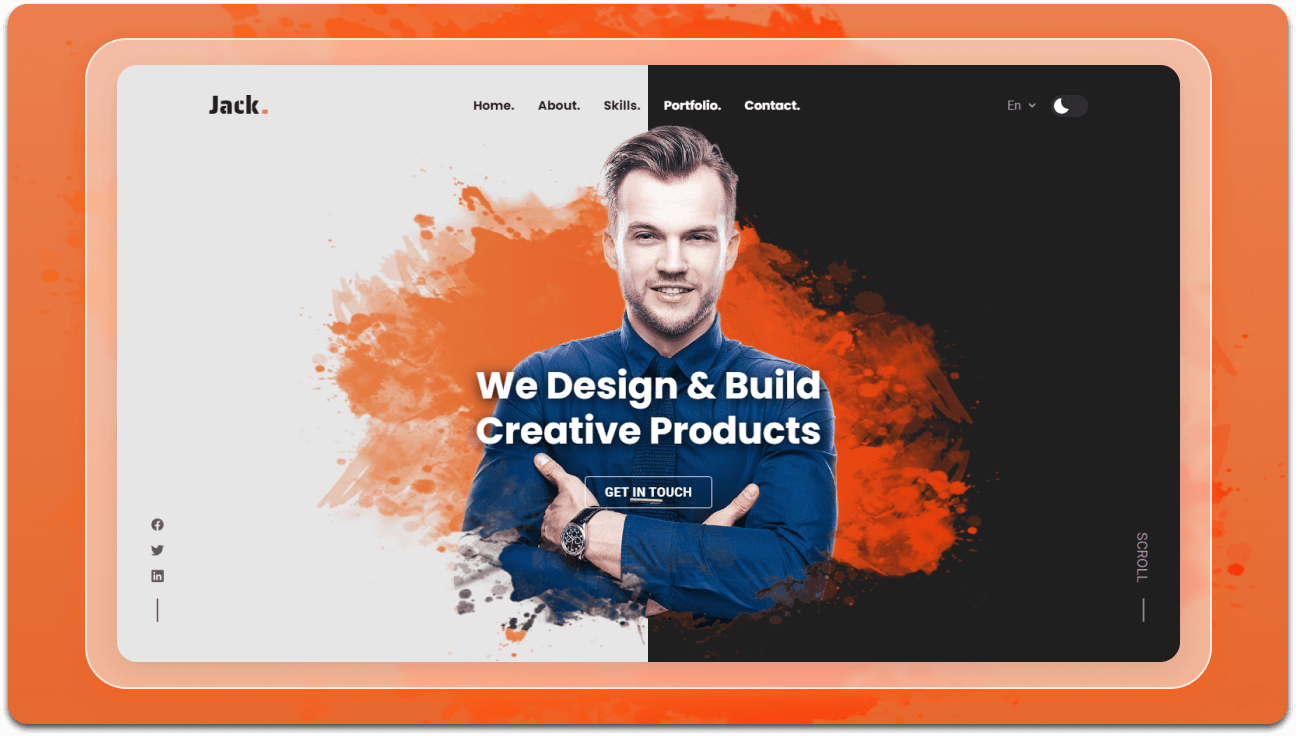
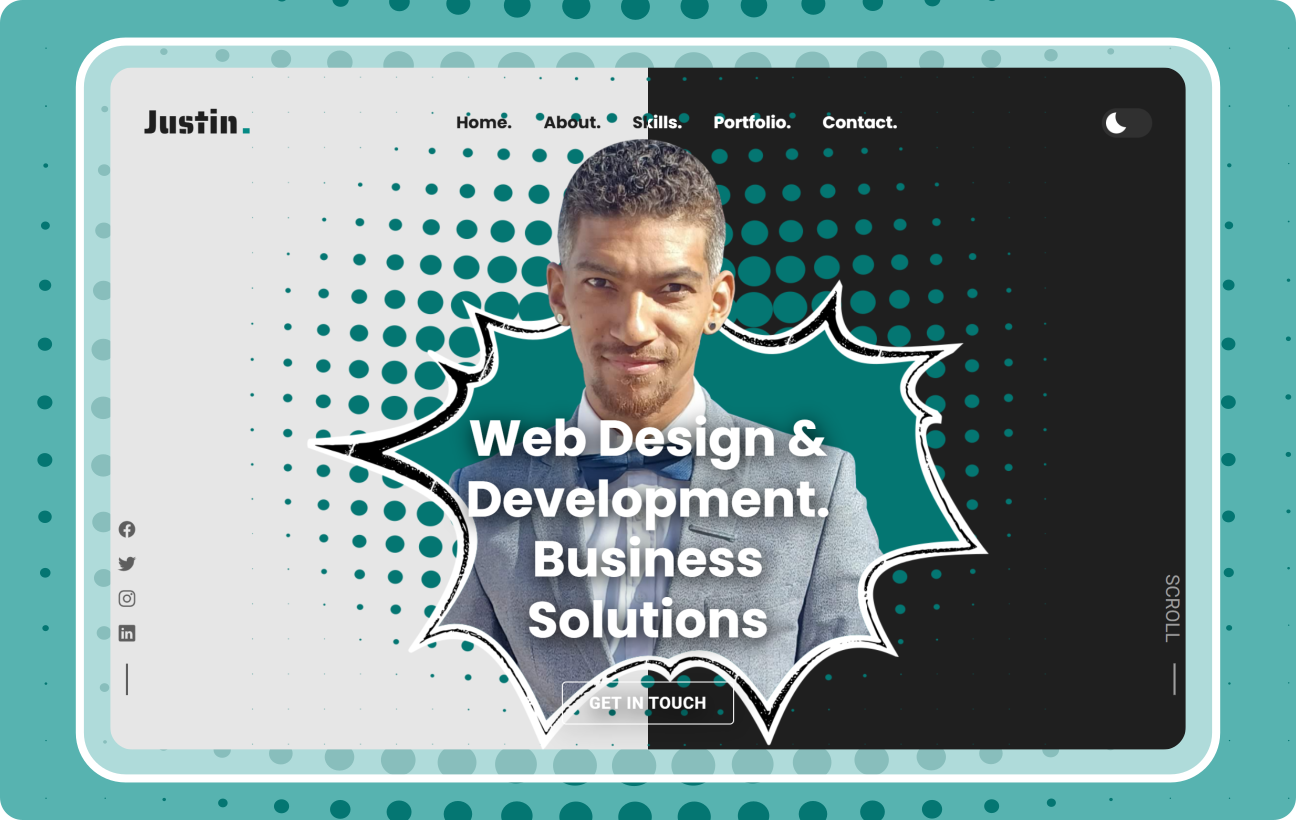
README images updated. Hero image filter added

diff --git a/index.html b/index.html
@@ -114,7 +114,7 @@
 
         <div class="hero-content">
 
-          <h2 class="h2 hero-title">Web Design & Development. <br> Business <br> Solutions</h2>
+          <h2 class="h2 hero-title">Web Design & Development. <br> Business Solutions</h2>
 
           <a href="#contact" class="btn btn-primary">Get in touch</a>
 
@@ -854,9 +854,9 @@
             </a>
           </li>
 
-          <li>
+          <!-- <li>
             <button class="load-more">Load more work...</button>
-          </li>
+          </li> -->
 
         </ul>
 

diff --git a/assets/css/style.css b/assets/css/style.css
@@ -532,6 +532,10 @@ main {
   max-width: 500px;
   width: 125%;
   margin-bottom: 30px;
+
+  picture {
+    filter: brightness(90%);
+  }
 }
 
 :is(.hero-social-list, .scroll-down) {
@@ -1176,7 +1180,7 @@ textarea.input-field {
      * typography
      */
 
-    --fs-2: 3rem;
+    --fs-2: 2.8rem;
 
     /**
      * spacing

diff --git a/README.md b/README.md
@@ -1,2 +1,62 @@
-# justin-portfolio
-Portfolio Website for Justin Cupido - Web Development and Business Solutions for Online Success
+<div align="center">
+  
+  <br />
+  <br />
+  
+  <img src="./readme-images/project-logo.png" />
+
+  <h2 align="center">Justin - Personal portfolio</h2>
+
+  Portfolio Website for Justin Cupido - Web Development and Business Solutions for Online Success
+
+  This website is a fully responsive personal portfolio, <br />Responsive for all devices, built using HTML, CSS, and JavaScript.
+
+  <a href="https://unjustifiable1.github.io/justin-portfolio/"><strong>➥ Live Demo</strong></a>
+
+</div>
+
+<br />
+
+### Demo Screeshots
+
+![Justin Portfolio Desktop Demo](./readme-images/desktop.png "Desktop Demo")
+
+### Prerequisites
+
+Before you begin, ensure you have met the following requirements:
+
+* [Git](https://git-scm.com/downloads "Download Git") must be installed on your operating system.
+
+### Run Locally
+
+To run **justin-portfolio** locally, run this command on your git bash:
+
+Linux and macOS:
+
+```bash
+sudo git clone https://github.com/Unjustifiable1/justin-portfolio.git
+```
+
+Windows:
+
+```bash
+git clone https://github.com/Unjustifiable1/justin-portfolio.git
+```
+
+### Contact
+
+If you want to contact with me you can reach me at [Email](mailto:connect@redcapeintel.com).
+
+### Credits
+
+This project is **free to use** and does not contains any license.
+
+```
+I would like to acknowledge the following programmers and creators:
+```
+
+* Web design inspired by [Codewithsadee](https://codewithsadee.github.io)
+* Images and/or Icons from [Freepik](https://www.freepik.com/)
+* Images and/or Icons from [World Vector Logo](https://worldvectorlogo.com/)
+* Images and/or Icons from [ionic.io](https://ionic.io/ionicons)
+* Fonts from [Google Fonts](https://fonts.google.com/)
